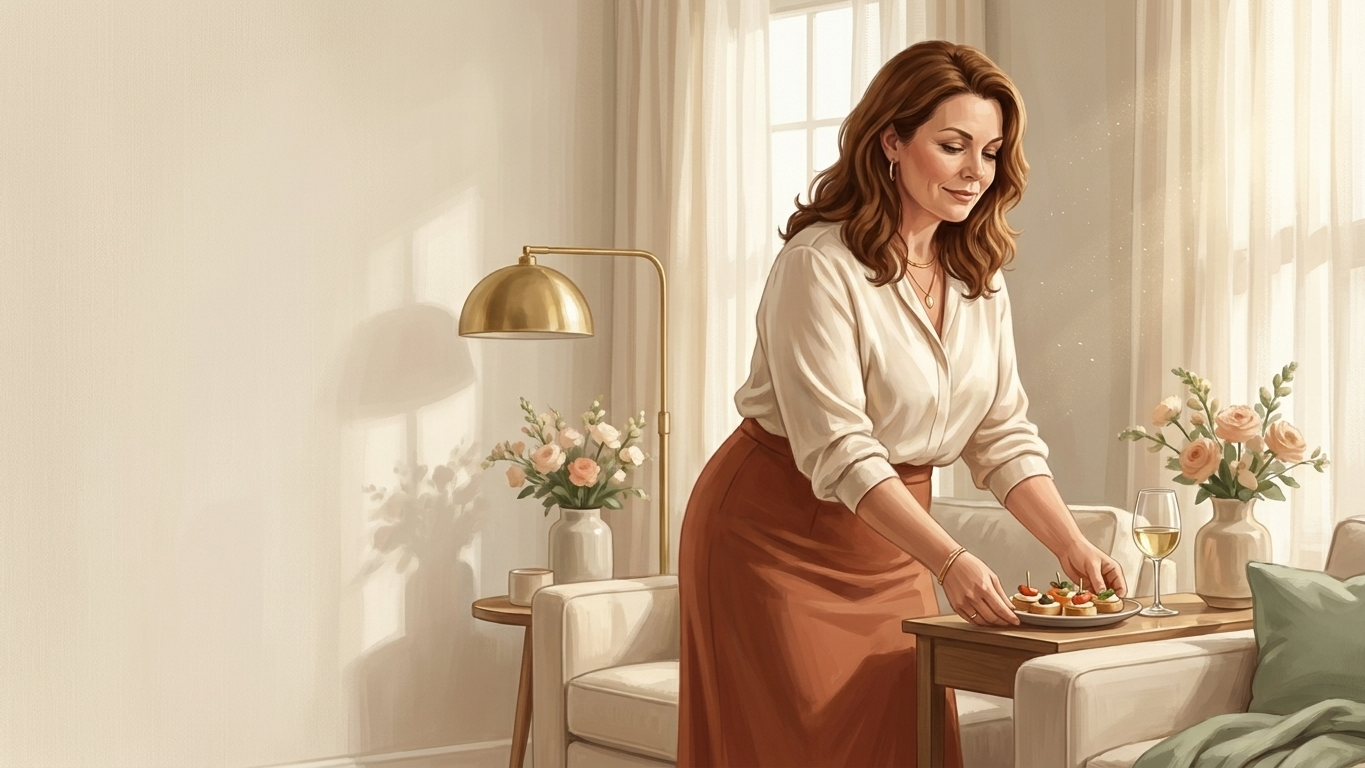
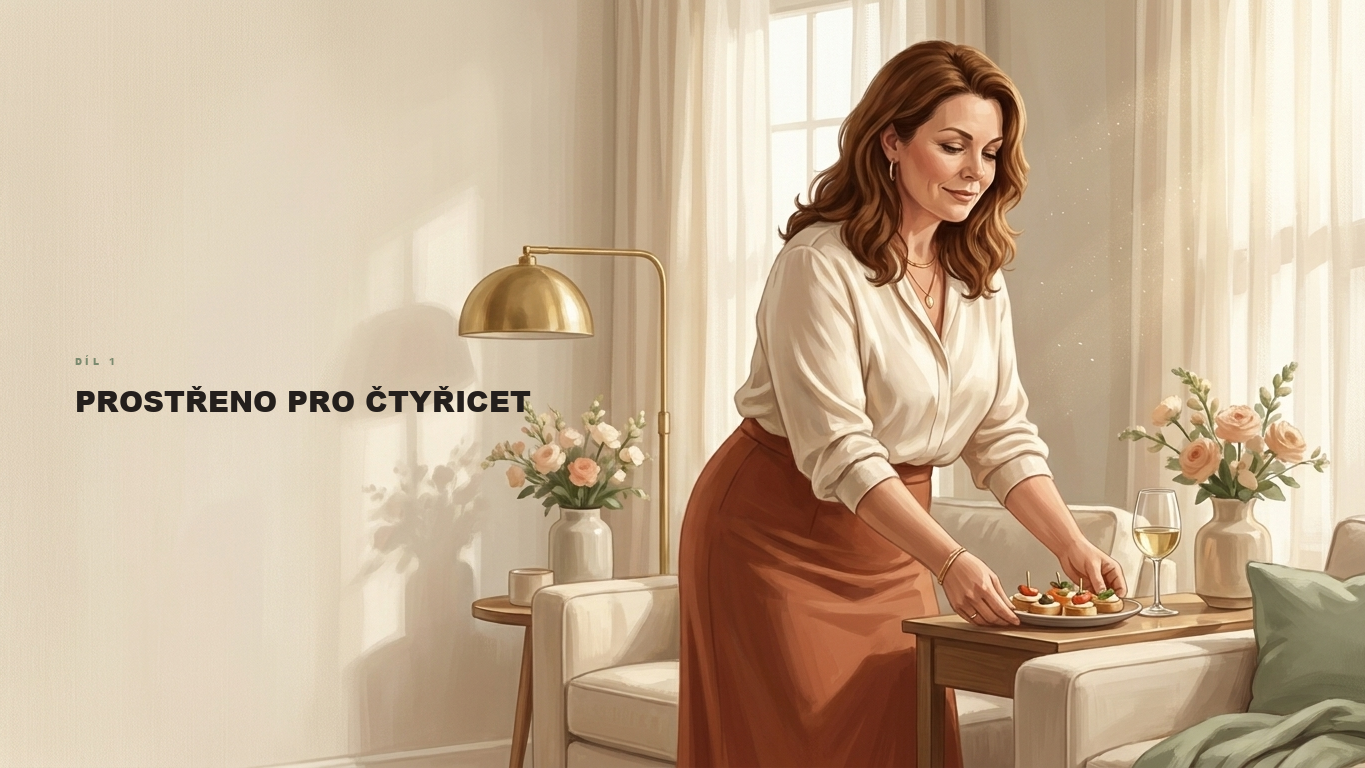
Bannery: název vypálený v pevné velikosti 30 px u všech dílů
- Velikost zvolena Jarkou; žádné dopočítávání podle délky názvu
- Vypáleno i do banneru Dílu 1 (zatím jen v pracovní kopii, na webu je pořád HTML titulek)
- Sazba zapsaná do receptu, aby byla opakovatelná; čisté verze uloženy jako *-banner-cisty.png

Changed region(s): [[0.0308, 0.5, 0.4, 0.5625]]

diff --git a/JE-CAS-ZIT_helena-image-recept.md b/JE-CAS-ZIT_helena-image-recept.md
@@ -121,6 +121,19 @@ terakota, tmavě modrá, šalvěj, s decentními akcenty. **Střídej mezi díly
 - **Karta (náhled v seznamu) — BEZ TEXTU:** těsnější, **3:2**, ~1200×800. **Plná kompozice, žádné místo na text a žádný text v obraze** — číslo, název i teaser jsou v kartě POD obrázkem.
 - Postup: vygeneruj **širokou verzi** (s klidnou plochou na název) a z ní **ořízni kartu** na plný motiv — nebo požádej generátor rovnou o oba poměry.
 
+### SAZBA NÁZVU DO BANNERU (pevná, stejná pro všechny díly)
+
+Název i číslo dílu se **vypalují přímo do banneru** (proto `nazev_v_banneru: true`
+v hlavičce dílu — stránka pak název nepíše podruhé).
+
+- **Písmo:** Arial Black, verzálky
+- **Velikost názvu:** **30 px** při výšce obrazu 768 px (poměr 0,039 × výška) — **pevně**,
+  nikdy ne „dopočítat podle délky". Dlouhý název se zalomí do víc řádků, velikost zůstane.
+- **Nadřádek „DÍL x":** 0,013 × výška, prostrkaný, barva šalvěj `#7C8A6F`
+- **Barva názvu:** `#241F1C` · **řádkování** 1,18 · **odsazení zleva** 5,5 % šířky
+- **Sazební plocha:** levých 40 % šířky (klidná plocha banneru)
+- Čistá verze bez textu se ukládá jako `*-banner-cisty.png` — kdyby se přesazovalo.
+
 ### Které obrázky web potřebuje
 - **Kdo je Helena (úvod):** vlastní obraz — dvojobraz (tvoje foto + Helena malovaná) **nebo** Helenin portrét v obýváku. Široký, s klidnou plochou vlevo na manifest (varianta A).
 - **Každý díl:** vlastní scéna ve dvou formátech (banner 16:9 s textem + karta 3:2 bez textu). Helena u stolku s chlebíčky = **ilustrace k Dílu 1 „Prostřeno pro čtyřicet"**, ne úvod webu.
